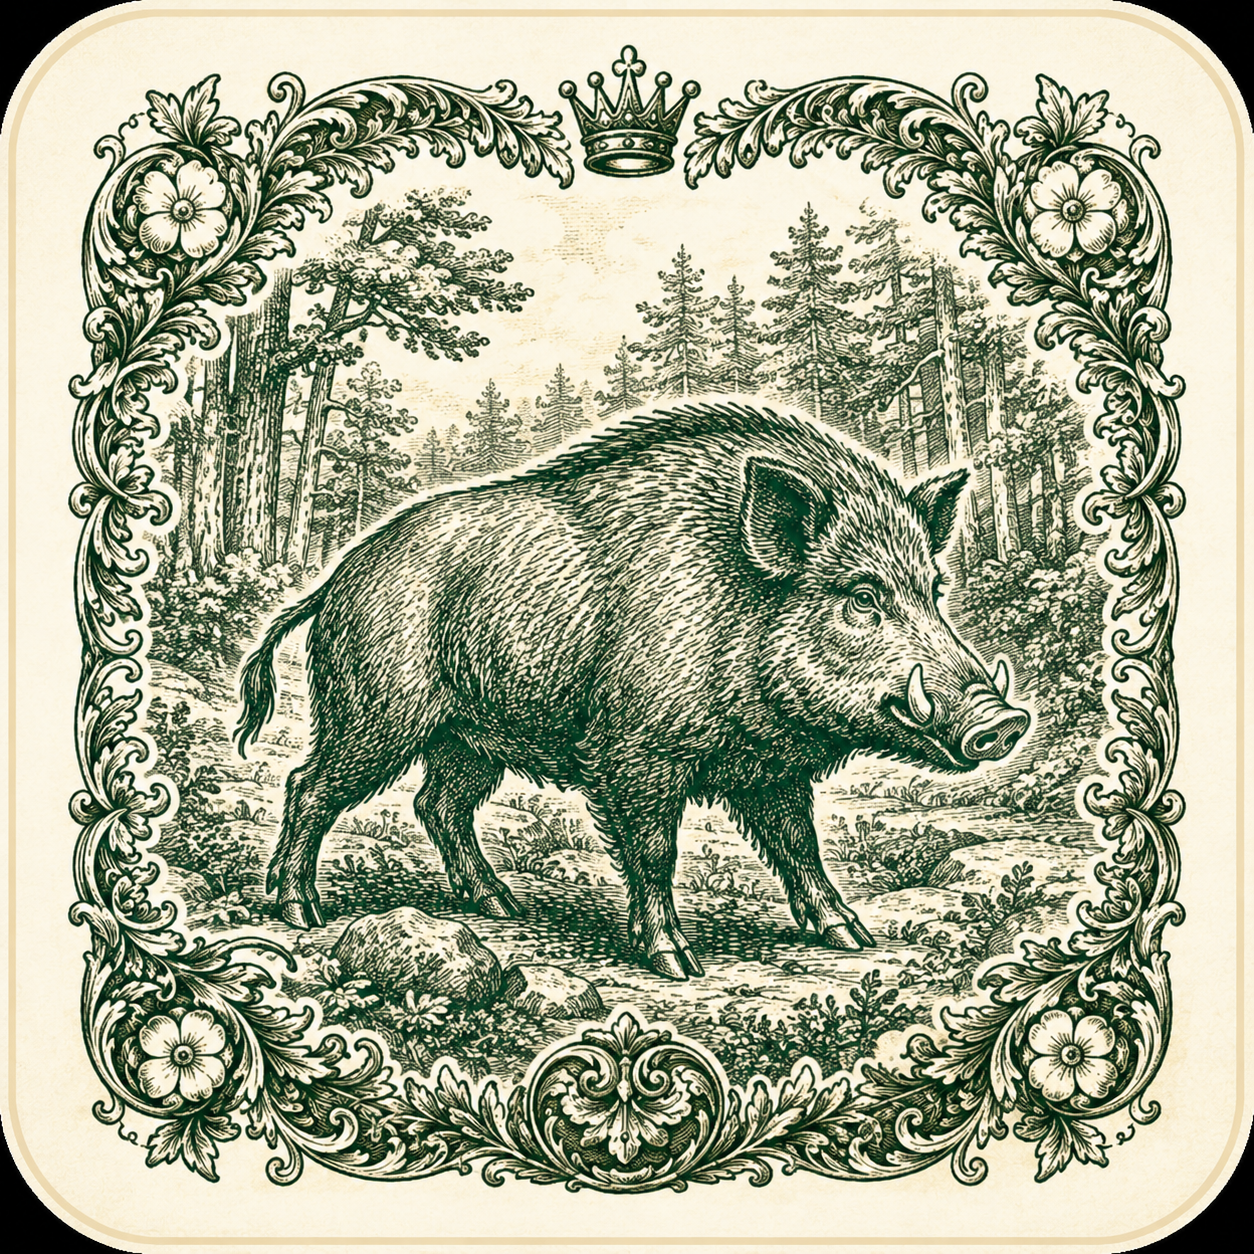
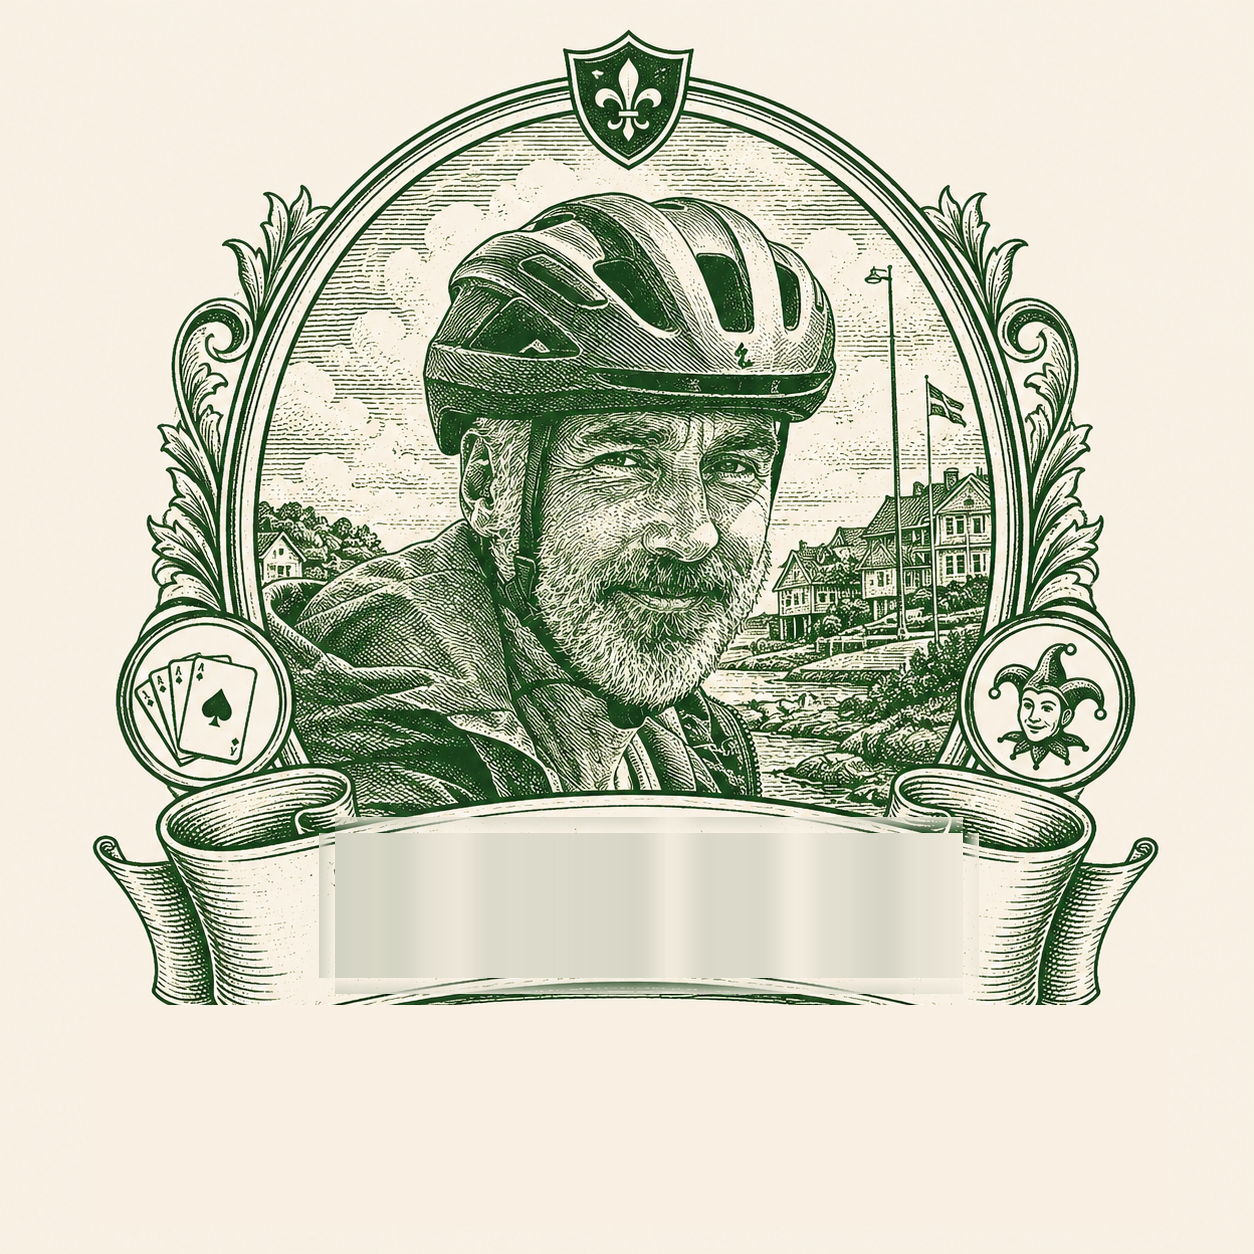
Rätta stavfel, byt ut Blarens kortbild och höj cacheversion
Blompottan -> Blompotten i korthistoriken. Blaren hade samma
vildsvinsbild som Husu av misstag - ersatt med ny bild där texten
tagits bort. Bumpar v=2 -> v=3 för blaren.png och service worker-
cachens namn så klienter hämtar den nya bilden.

diff --git a/js/cards.js b/js/cards.js
@@ -29,7 +29,7 @@ export const CARDS = [
   // === Zero Cards (Nollkort) ===
   { id: 'kransen', name: 'Kransen', type: 'zero', points: 0, image: 'assets/cards/kransen.png?v=2' },
   { id: 'blompotten', name: 'Blompotten', type: 'zero', points: 0, image: 'assets/cards/blompotten.png?v=2' },
-  { id: 'blaren', name: 'Blaren', type: 'zero', points: 0, image: 'assets/cards/blaren.png?v=2' },
+  { id: 'blaren', name: 'Blaren', type: 'zero', points: 0, image: 'assets/cards/blaren.png?v=3' },
 ];
 
 /**

diff --git a/index.html b/index.html
@@ -367,7 +367,7 @@
               <li>Värdshus</li>
               <li>Nummer 1–12</li>
               <li>Kransen</li>
-              <li>Blompottan</li>
+              <li>Blompotten</li>
               <li>Blaren</li>
             </ul>
             <p>Museibevarade lekar visar stavningar som Arleqin, Cucu, Cavall och Wärdshus, vilket speglar äldre språkbruk och lekens internationella bakgrund. Nummerkorten är vanligen illustrerade med franska liljor.</p>

diff --git a/sw.js b/sw.js
@@ -1,4 +1,4 @@
-const CACHE_NAME = 'kille-cache-v30';
+const CACHE_NAME = 'kille-cache-v31';
 
 self.addEventListener('install', (event) => {
   event.waitUntil(
@@ -36,7 +36,7 @@ self.addEventListener('install', (event) => {
         './assets/cards/vardshus.png?v=2',
         './assets/cards/kransen.png?v=2',
         './assets/cards/blompotten.png?v=2',
-        './assets/cards/blaren.png?v=2'
+        './assets/cards/blaren.png?v=3'
       ]);
     })
   );
